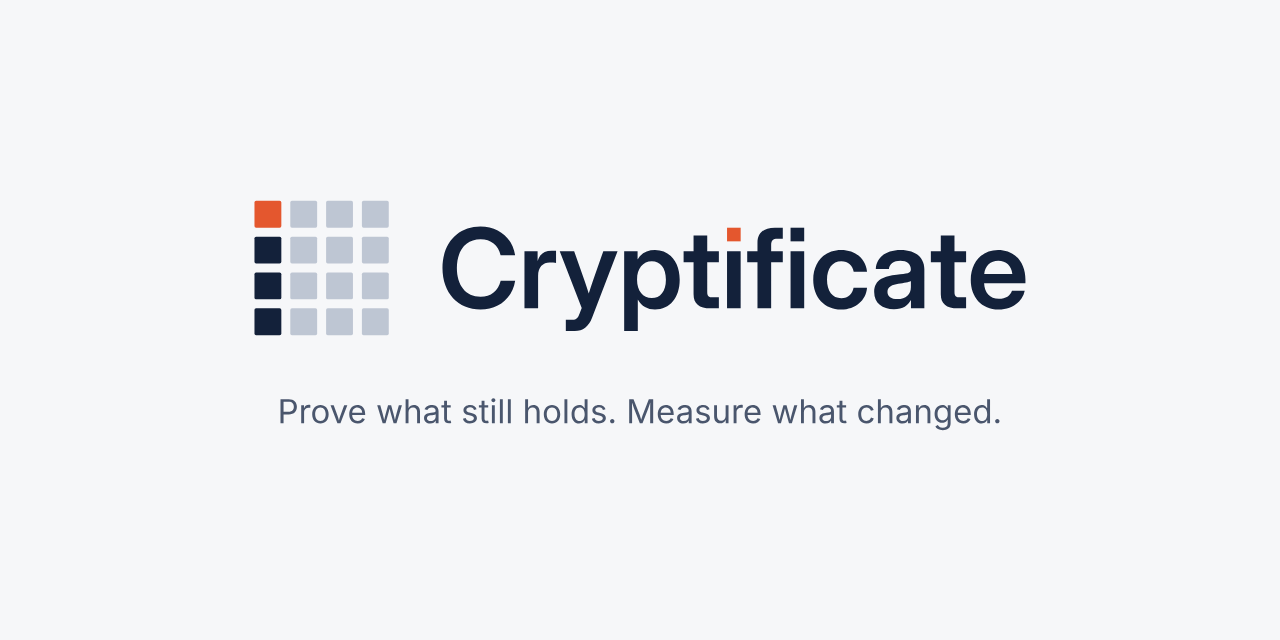
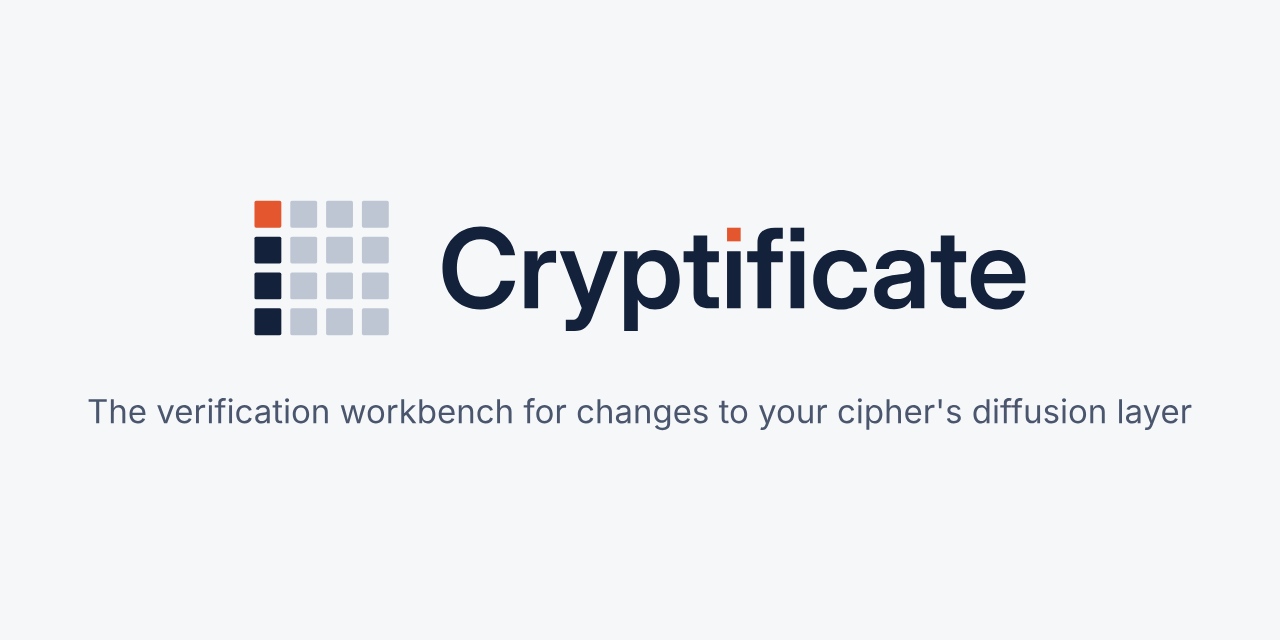
feat(brand): state what the tool is for on the social card

Changed region(s): [[0.0625, 0.625, 0.9375, 0.6875]]

diff --git a/assets/brand/tools/generate.py b/assets/brand/tools/generate.py
@@ -42,7 +42,7 @@ PITCH, CELL, PAD = 16, 12, 2  # mark units
 RX = 0.75  # byte corner radius in mark units: a paper state diagram, not an app grid
 CAP = 36  # wordmark cap height in mark units (mark 60 : cap 36 = 5 : 3)
 GAP = 24  # visible gap between the last byte column and the C, in mark units
-TAGLINE = "Prove what still holds. Measure what changed."
+TAGLINE = "The verification workbench for changes to your cipher's diffusion layer"
 SANS = "-apple-system, BlinkMacSystemFont, 'Segoe UI', 'Noto Sans', Helvetica, Arial, sans-serif"
 
 
